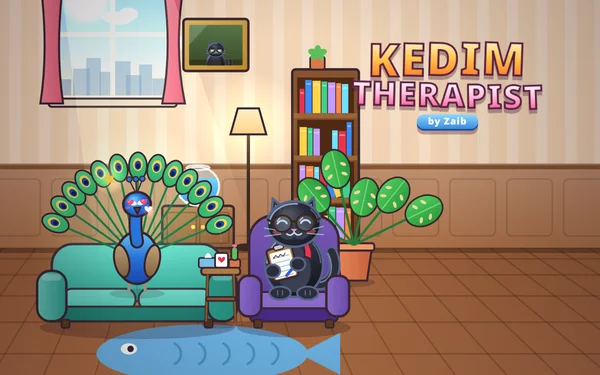
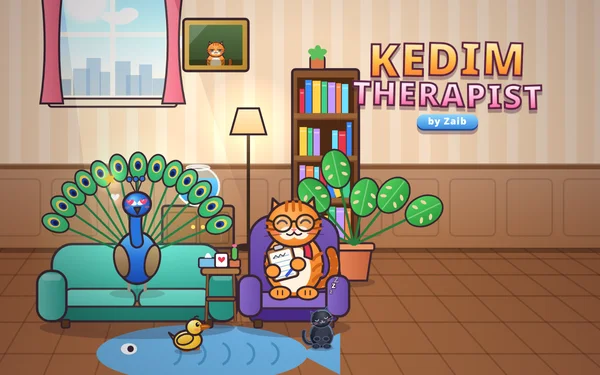
Kedim Therapist: ginger Kedim + pets thumbnail (v=3), bump SW version

diff --git a/index.html b/index.html
@@ -347,7 +347,7 @@ footer nav a{color:#c4b5fd;text-decoration:none}footer nav a:hover{text-decorati
    ============================================================ */
 const GAMES = [
   { name: "Meowstronauts", desc: "Two space cats blast across 6 planets — bosses, power-ups, solo or 2-player co-op.", genre: "Shooter", url: "/meowstronauts/", img: "img/meowstronauts.webp", color: "#a855f7", cat: "Action", isNew: true },
-  { name: "Kedim Therapist", desc: "Cozy comedy therapy sim: help silly animal patients with funny replies and 7 mini-games.", genre: "Casual", url: "/kedim-therapist/", img: "img/kedim-therapist.webp?v=2", color: "#f97316", cat: "Casual", isNew: true },
+  { name: "Kedim Therapist", desc: "Cozy comedy therapy sim: help silly animal patients with funny replies and 7 mini-games.", genre: "Casual", url: "/kedim-therapist/", img: "img/kedim-therapist.webp?v=3", color: "#f97316", cat: "Casual", isNew: true },
   { name: "Sunny Acres", desc: "Cozy farm: plant and harvest, feed chickens, cows and sheep, bake treats and fill truck orders. Saves progress.", genre: "Simulation", url: "/sunny-acres/", img: "img/sunny-acres.webp", color: "#7ccf4f", cat: "Casual", isNew: true },
   { name: "Pirate Isles", desc: "Pirate ship adventure: sail sunny isles, trade cargo, dig up treasure, beat pirate bosses, upgrade to a galleon.", genre: "Adventure", url: "/pirate-isles/", img: "img/pirate-isles.webp", color: "#1b8fd6", cat: "Action", isNew: true },
   { name: "Number Dash", desc: "Math runner: pick + \u2212 \u00d7 \u00f7 gates, answer quick sums, grow your number and beat the monster. 60 levels.", genre: "Puzzle", url: "/number-dash/", img: "img/number-dash.webp", color: "#4cb8ff", cat: "Puzzle", isNew: true },

diff --git a/index.template.html b/index.template.html
@@ -347,7 +347,7 @@ footer nav a{color:#c4b5fd;text-decoration:none}footer nav a:hover{text-decorati
    ============================================================ */
 const GAMES = [
   { name: "Meowstronauts", desc: "Two space cats blast across 6 planets — bosses, power-ups, solo or 2-player co-op.", genre: "Shooter", url: "/meowstronauts/", img: "img/meowstronauts.webp", color: "#a855f7", cat: "Action", isNew: true },
-  { name: "Kedim Therapist", desc: "Cozy comedy therapy sim: help silly animal patients with funny replies and 7 mini-games.", genre: "Casual", url: "/kedim-therapist/", img: "img/kedim-therapist.webp?v=2", color: "#f97316", cat: "Casual", isNew: true },
+  { name: "Kedim Therapist", desc: "Cozy comedy therapy sim: help silly animal patients with funny replies and 7 mini-games.", genre: "Casual", url: "/kedim-therapist/", img: "img/kedim-therapist.webp?v=3", color: "#f97316", cat: "Casual", isNew: true },
   { name: "Sunny Acres", desc: "Cozy farm: plant and harvest, feed chickens, cows and sheep, bake treats and fill truck orders. Saves progress.", genre: "Simulation", url: "/sunny-acres/", img: "img/sunny-acres.webp", color: "#7ccf4f", cat: "Casual", isNew: true },
   { name: "Pirate Isles", desc: "Pirate ship adventure: sail sunny isles, trade cargo, dig up treasure, beat pirate bosses, upgrade to a galleon.", genre: "Adventure", url: "/pirate-isles/", img: "img/pirate-isles.webp", color: "#1b8fd6", cat: "Action", isNew: true },
   { name: "Number Dash", desc: "Math runner: pick + \u2212 \u00d7 \u00f7 gates, answer quick sums, grow your number and beat the monster. 60 levels.", genre: "Puzzle", url: "/number-dash/", img: "img/number-dash.webp", color: "#4cb8ff", cat: "Puzzle", isNew: true },

diff --git a/sw.js b/sw.js
@@ -6,7 +6,7 @@
      stale-while-revalidate, so updated thumbnails show up on the next visit.
    - Cross-origin requests (Google Analytics, AdSense, etc.) are never touched.
    Bump VERSION to drop old caches. */
-const VERSION = "zg-2026-10-12-1";
+const VERSION = "zg-2026-10-12-2";
 const STATIC = VERSION + "-static";   // precache + cache-first assets
 const PAGES = VERSION + "-pages";     // HTML pages (hub, guides, games)
 const RUNTIME = VERSION + "-runtime"; // other same-origin files
